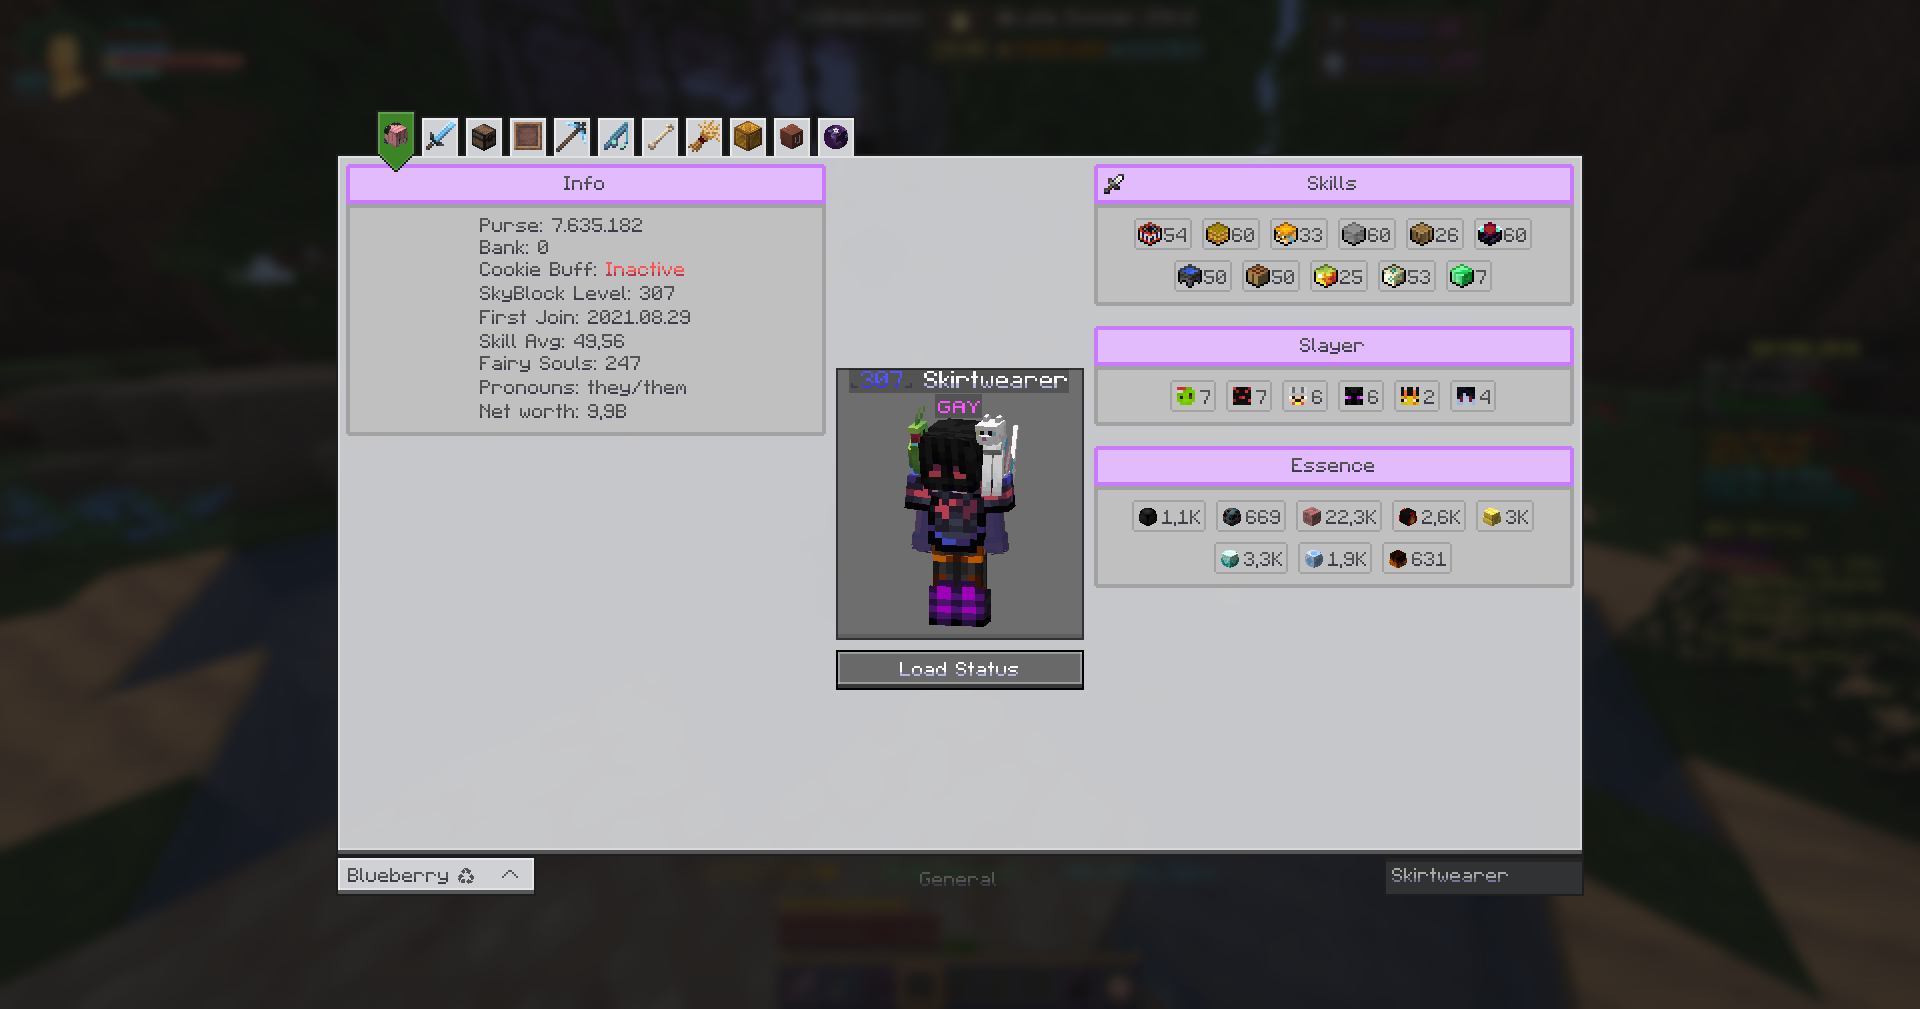
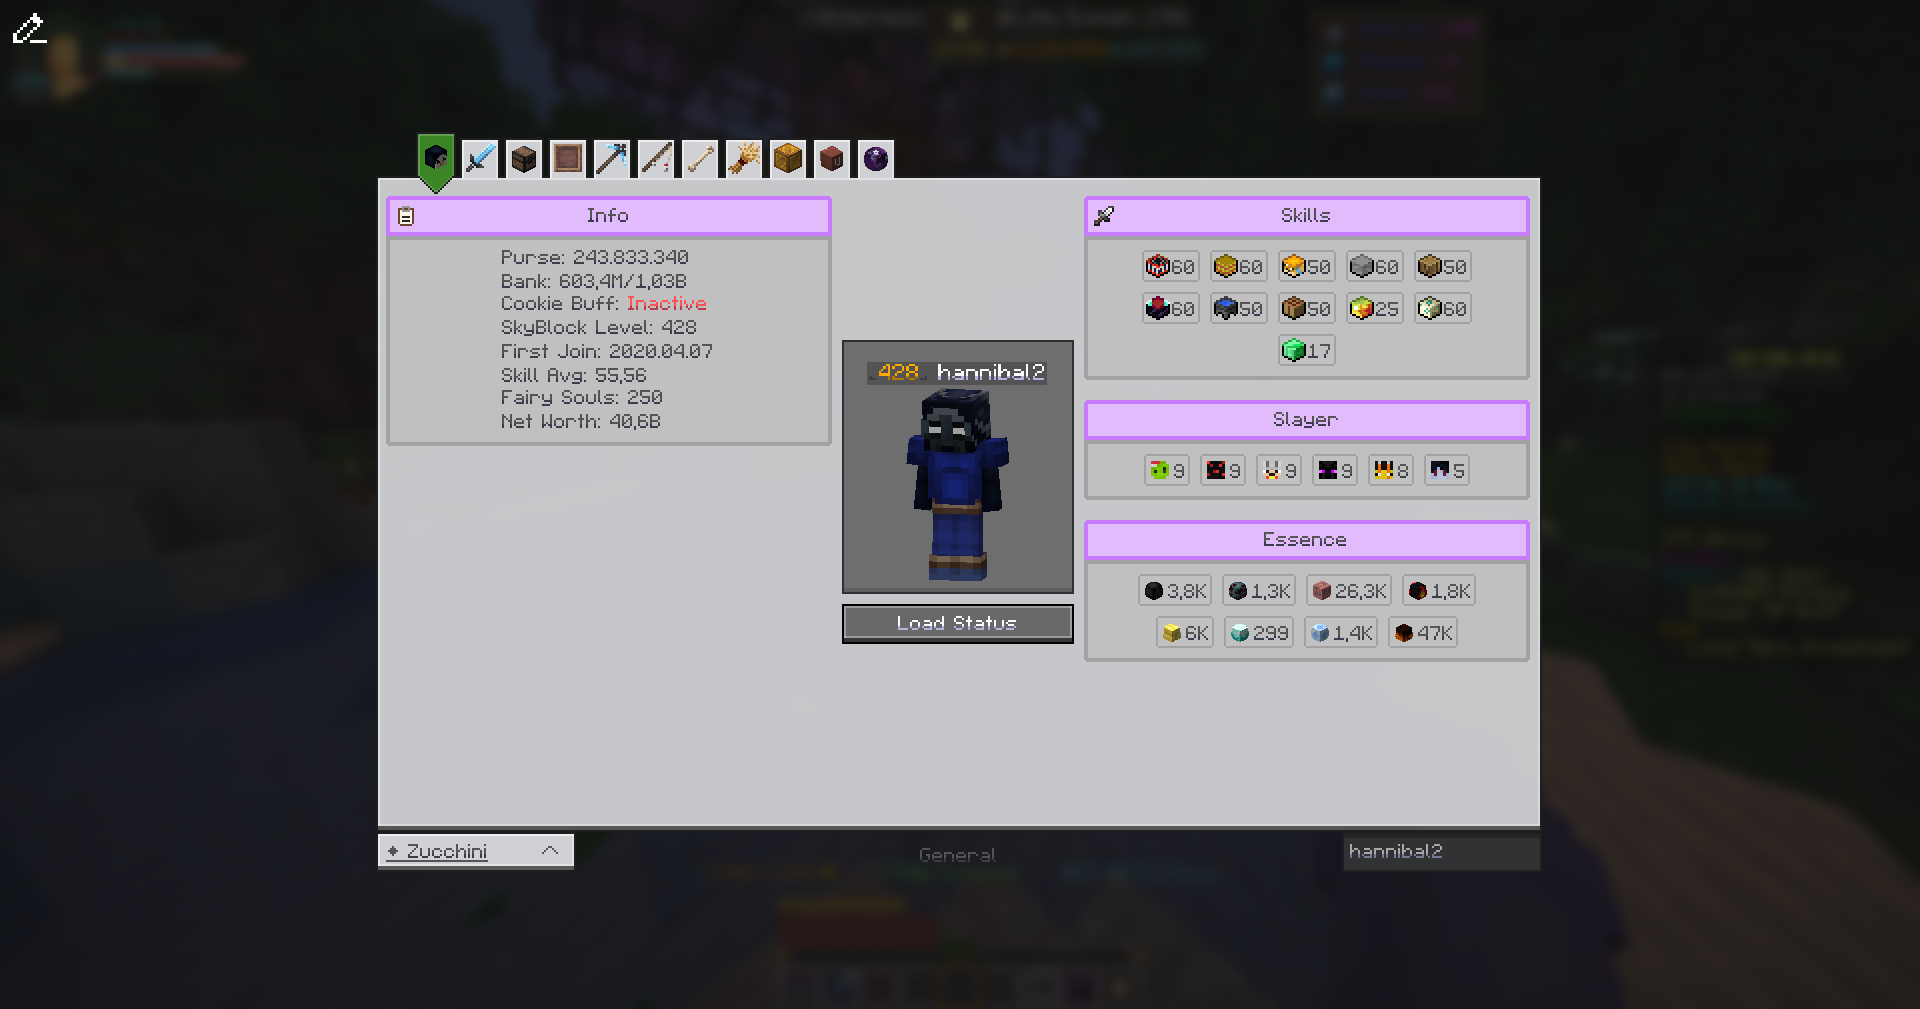
chore: bump version

diff --git a/src/main/kotlin/me/owdding/skyblockpv/screens/BasePvScreen.kt b/src/main/kotlin/me/owdding/skyblockpv/screens/BasePvScreen.kt
@@ -62,7 +62,7 @@ abstract class BasePvScreen(val name: String, val gameProfile: GameProfile, prof
     var profiles: List<SkyBlockProfile> = emptyList()
 
     val uiWidth get() = (uiHeight * ASPECT_RATIO).toInt()
-    val uiHeight get() = (this.height * 0.6).toInt()
+    val uiHeight get() = (this.height * 0.65).toInt()
 
     var initedWithProfile = false
 
